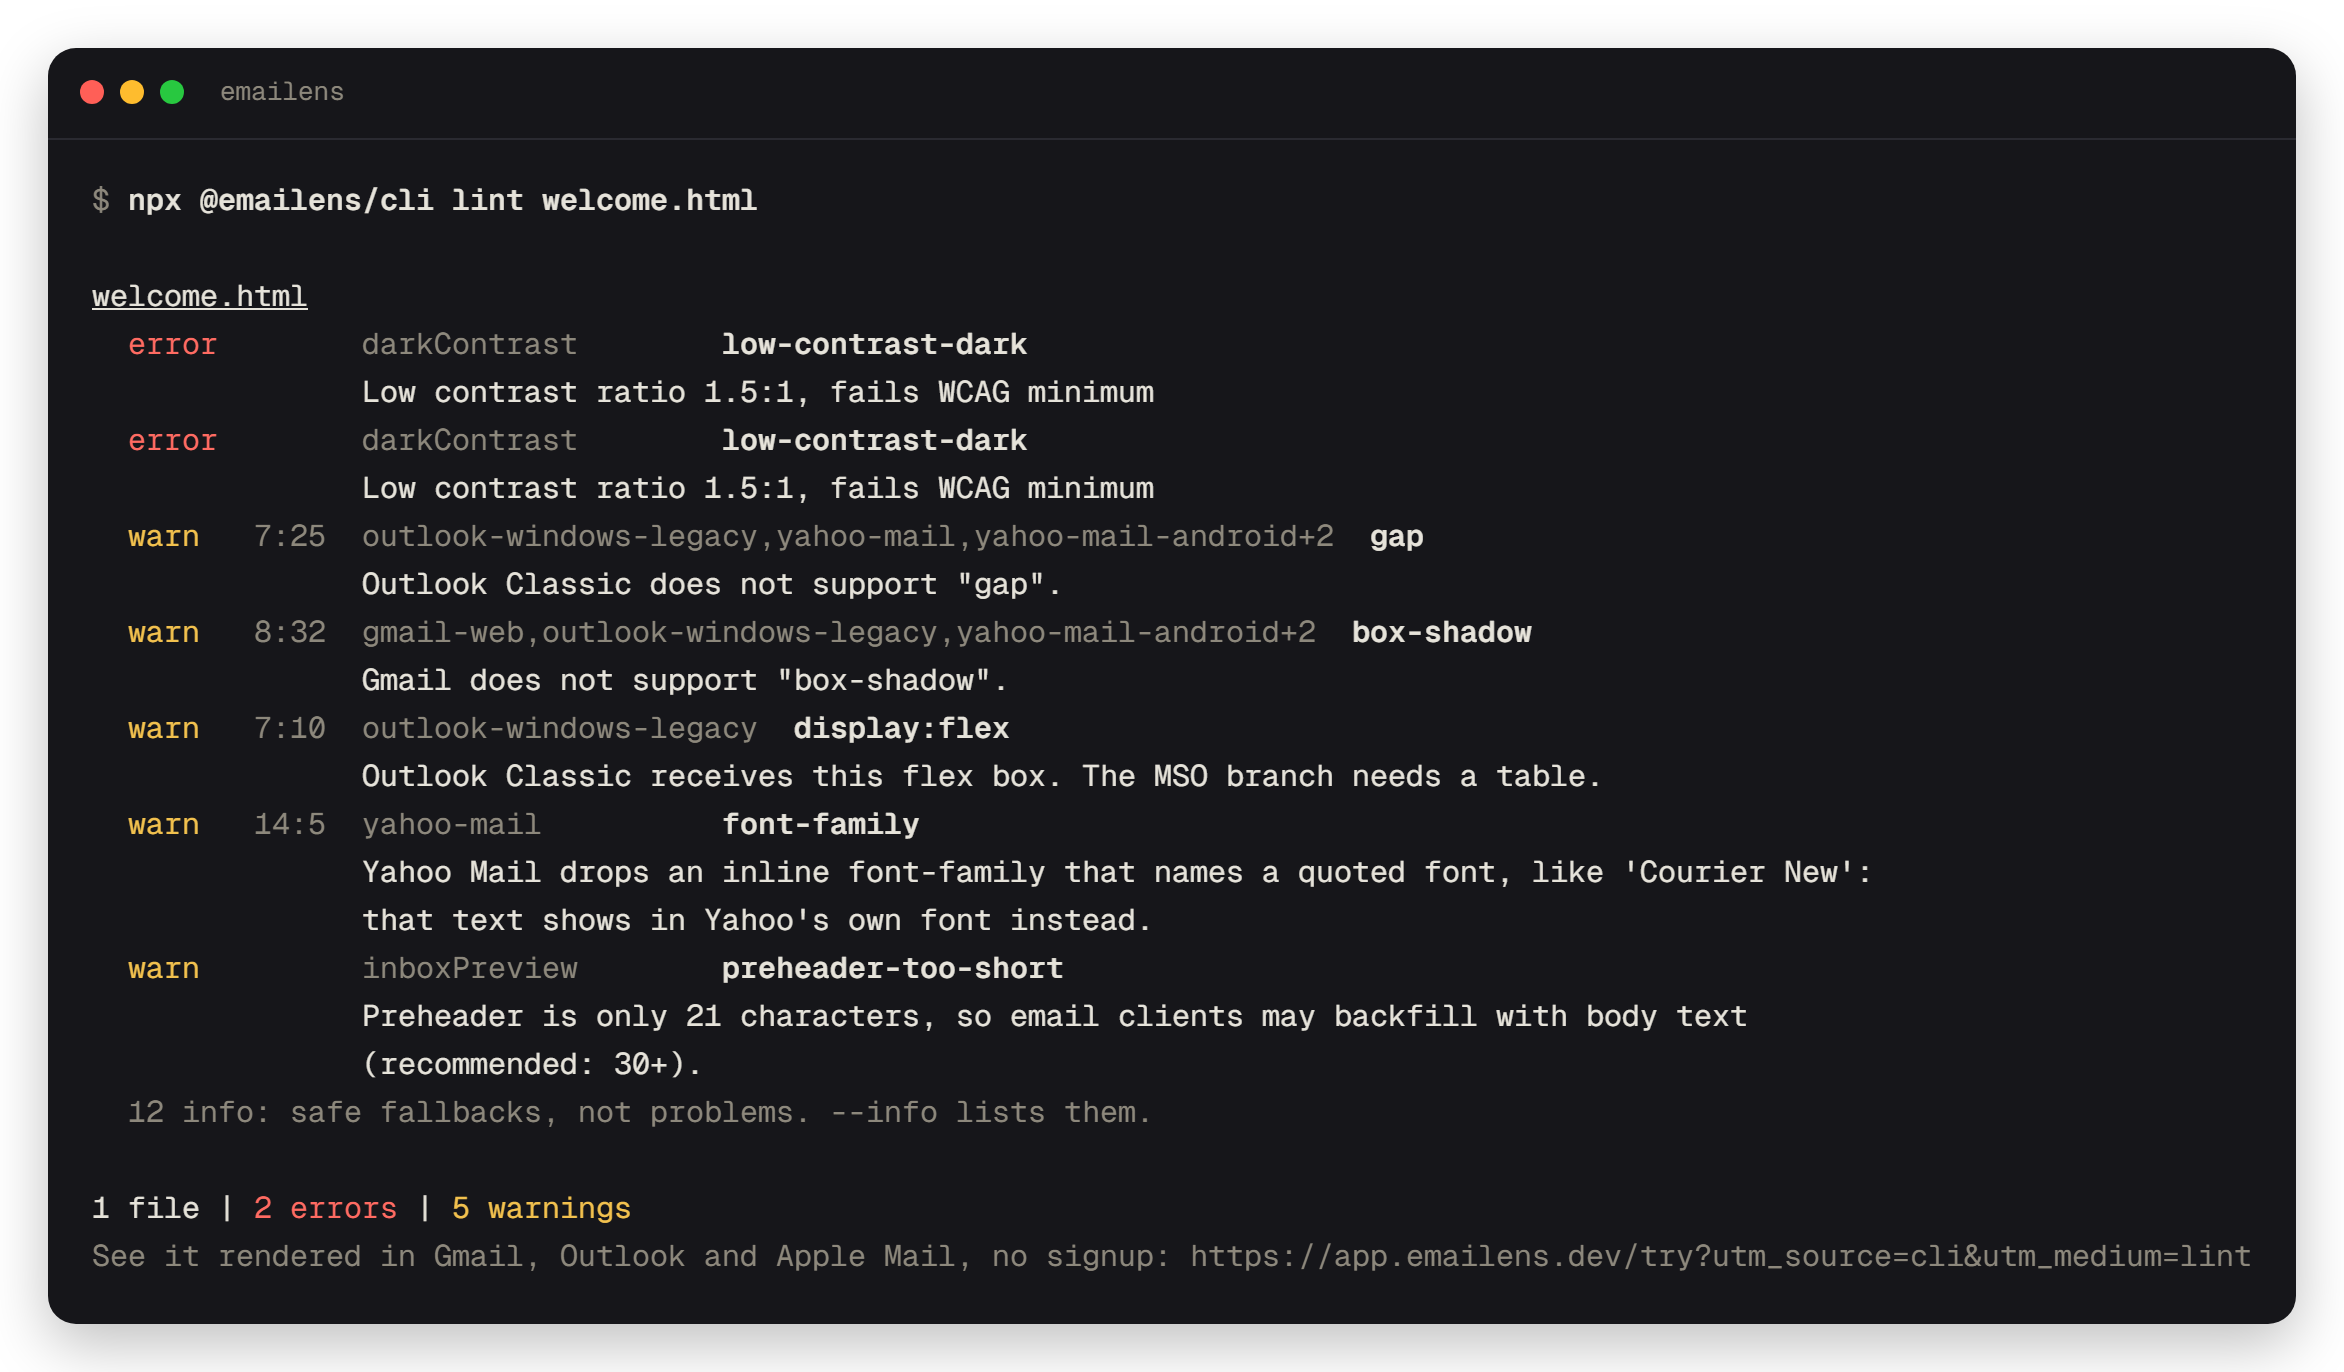
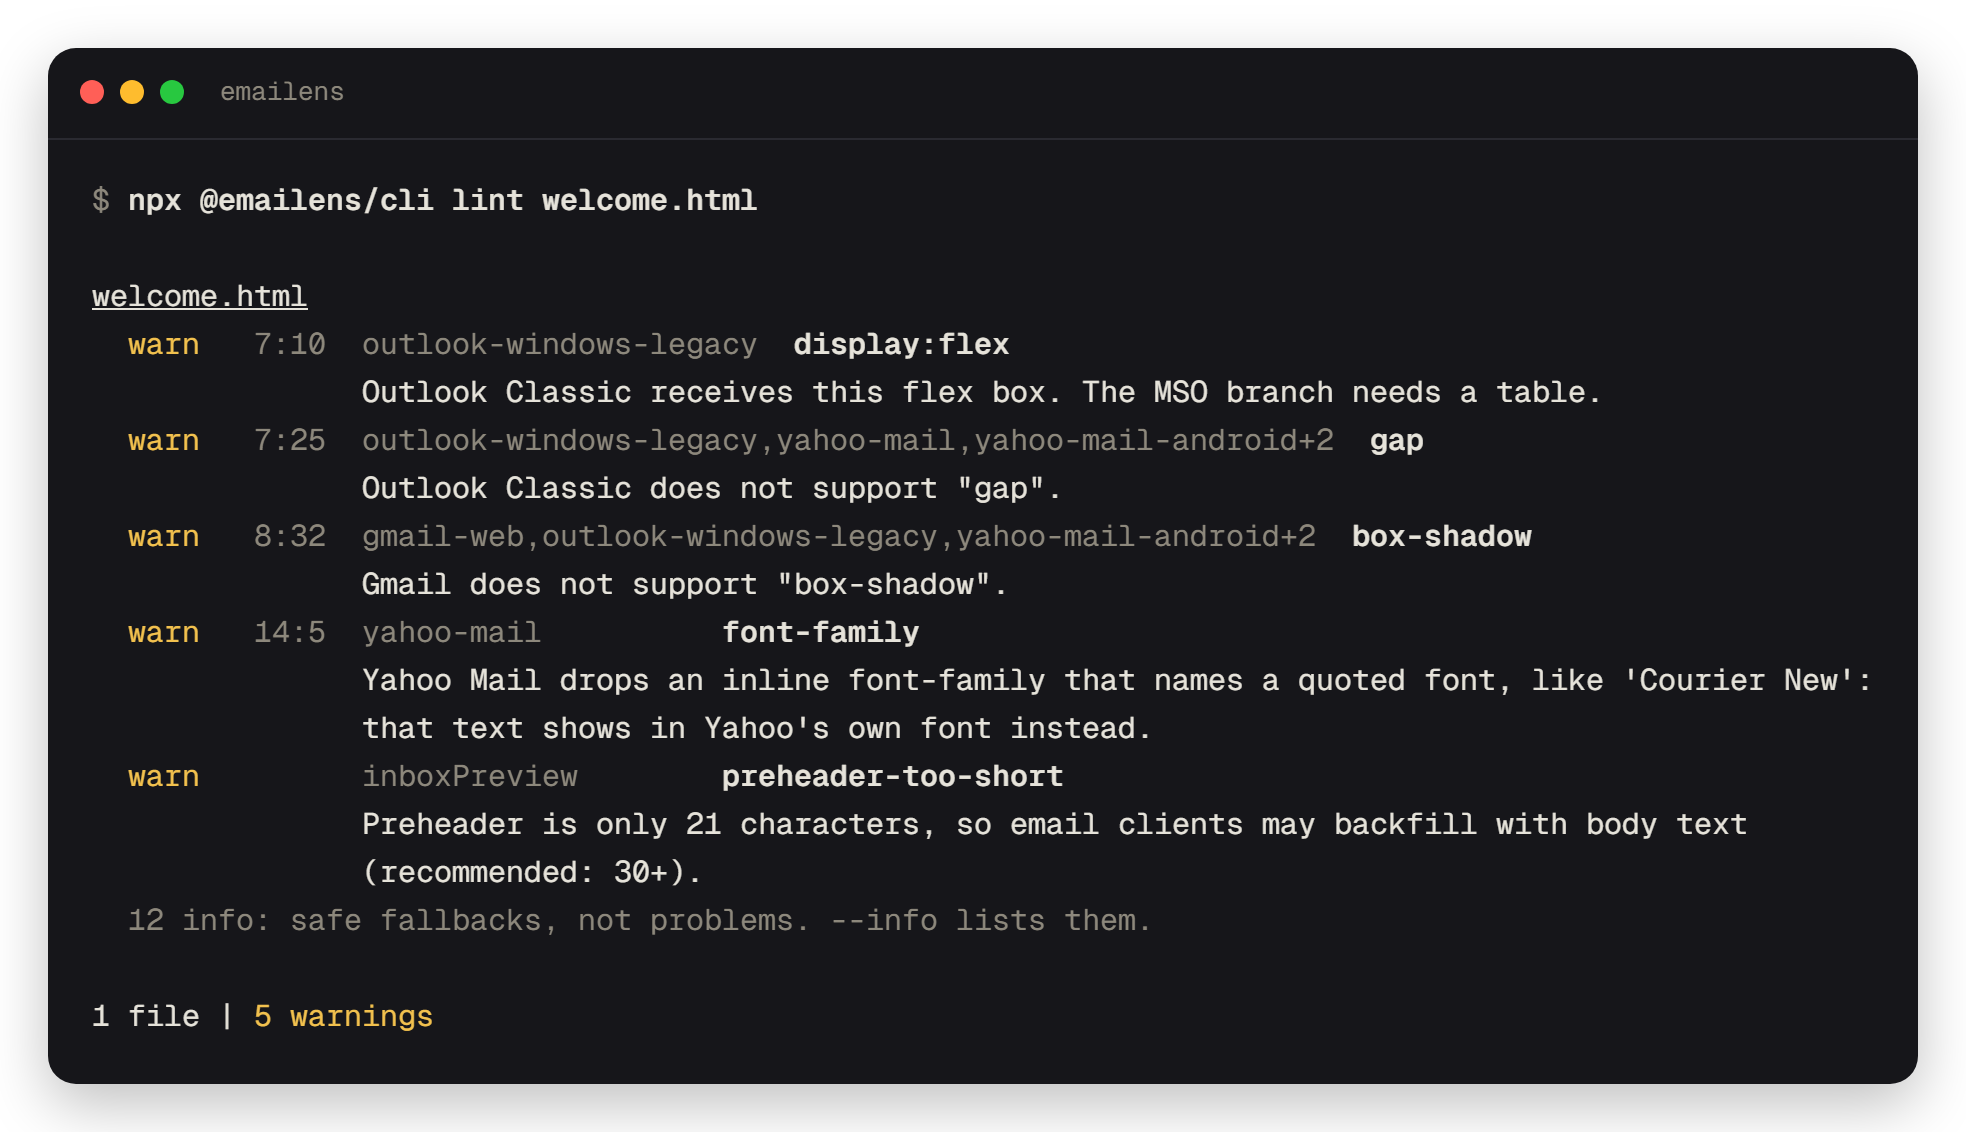
release: 0.13.2, each finding once, in line order
README sample and lint-demo.png retaken with this build.

Claude-Session: https://claude.ai/code/session_01K8Mx27ZKj3Y2RudinVGUMp

diff --git a/README.md b/README.md
@@ -16,23 +16,25 @@
 ```text
 $ emailens lint emails/welcome.html --fail-on-warning
 emails/welcome.html
-  warn   6:17  outlook-windows-legacy  display:flex            Outlook Classic receives this flex box. The MSO branch needs a table.
-  warn   6:30  outlook-windows-legacy,yahoo-mail,yahoo-mail-android+2  gap                     Outlook Classic does not support "gap".
-  warn   6:39  outlook-windows-legacy,outlook-windows-legacy  padding                 Outlook Classic drops this padding. Put it on a table cell, or set mso-padding-alt on one.
-  warn         inboxPreview        preheader-too-short     Preheader is only 22 characters, so email clients may backfill with body text (recommended: 30+).
-  9 info: safe fallbacks, not problems. --info lists them.
+  warn   7:10  outlook-windows-legacy  display:flex            Outlook Classic receives this flex box. The MSO branch needs a table.
+  warn   7:25  outlook-windows-legacy,yahoo-mail,yahoo-mail-android+2  gap                     Outlook Classic does not support "gap".
+  warn   8:32  gmail-web,outlook-windows-legacy,yahoo-mail-android+2  box-shadow              Gmail does not support "box-shadow".
+  warn   14:5  yahoo-mail          font-family             Yahoo Mail drops an inline font-family that names a quoted font, like 'Courier New': that text shows in Yahoo's own font instead.
+  warn         inboxPreview        preheader-too-short     Preheader is only 21 characters, so email clients may backfill with body text (recommended: 30+).
+  12 info: safe fallbacks, not problems. --info lists them.
 
-1 file | 4 warnings
+1 file | 5 warnings
 
-Failed: 4 warnings found (--failOnWarning)
+Failed: 5 warnings found (--failOnWarning)
 See it rendered in Gmail, Outlook and Apple Mail, no signup: https://app.emailens.dev/try?utm_source=cli&utm_medium=lint
 ```
 
-That is a flex row with a rounded button, checked against 21 email clients.
-Each finding has its line:column, and the exit code (here 2) fails the build.
-The rounded corners are among the 9 info findings: Outlook Classic draws them
-square, a safe fallback rather than a problem. The last line appears only when
-the check fails; `--quiet` drops it, and `--json` never has it.
+That is a welcome email with a flex row and a card shadow, checked against 21
+email clients. Each finding has its line:column, and the exit code (here 2)
+fails the build. The card's rounded corners are among the 12 info findings:
+Outlook Classic draws them square, a safe fallback rather than a problem. The
+last line appears only when the check fails; `--quiet` drops it, and `--json`
+never has it.
 
 ## Install
 

diff --git a/CHANGELOG.md b/CHANGELOG.md
@@ -1,5 +1,15 @@
 # Changelog
 
+## 0.13.2 - 2026-10-30
+
+### Fixed
+
+- A style-survival, size or VML finding was printed twice, the second time
+  without a line, and counted twice toward the error total and the exit code.
+- A client that breaks one property through two selectors was named twice
+  (`outlook-windows-legacy,outlook-windows-legacy`), which also inflated `+N`.
+- Within a severity, findings follow the document; ones with no line come last.
+
 ## 0.13.1 - 2026-10-30
 
 ### Fixed
